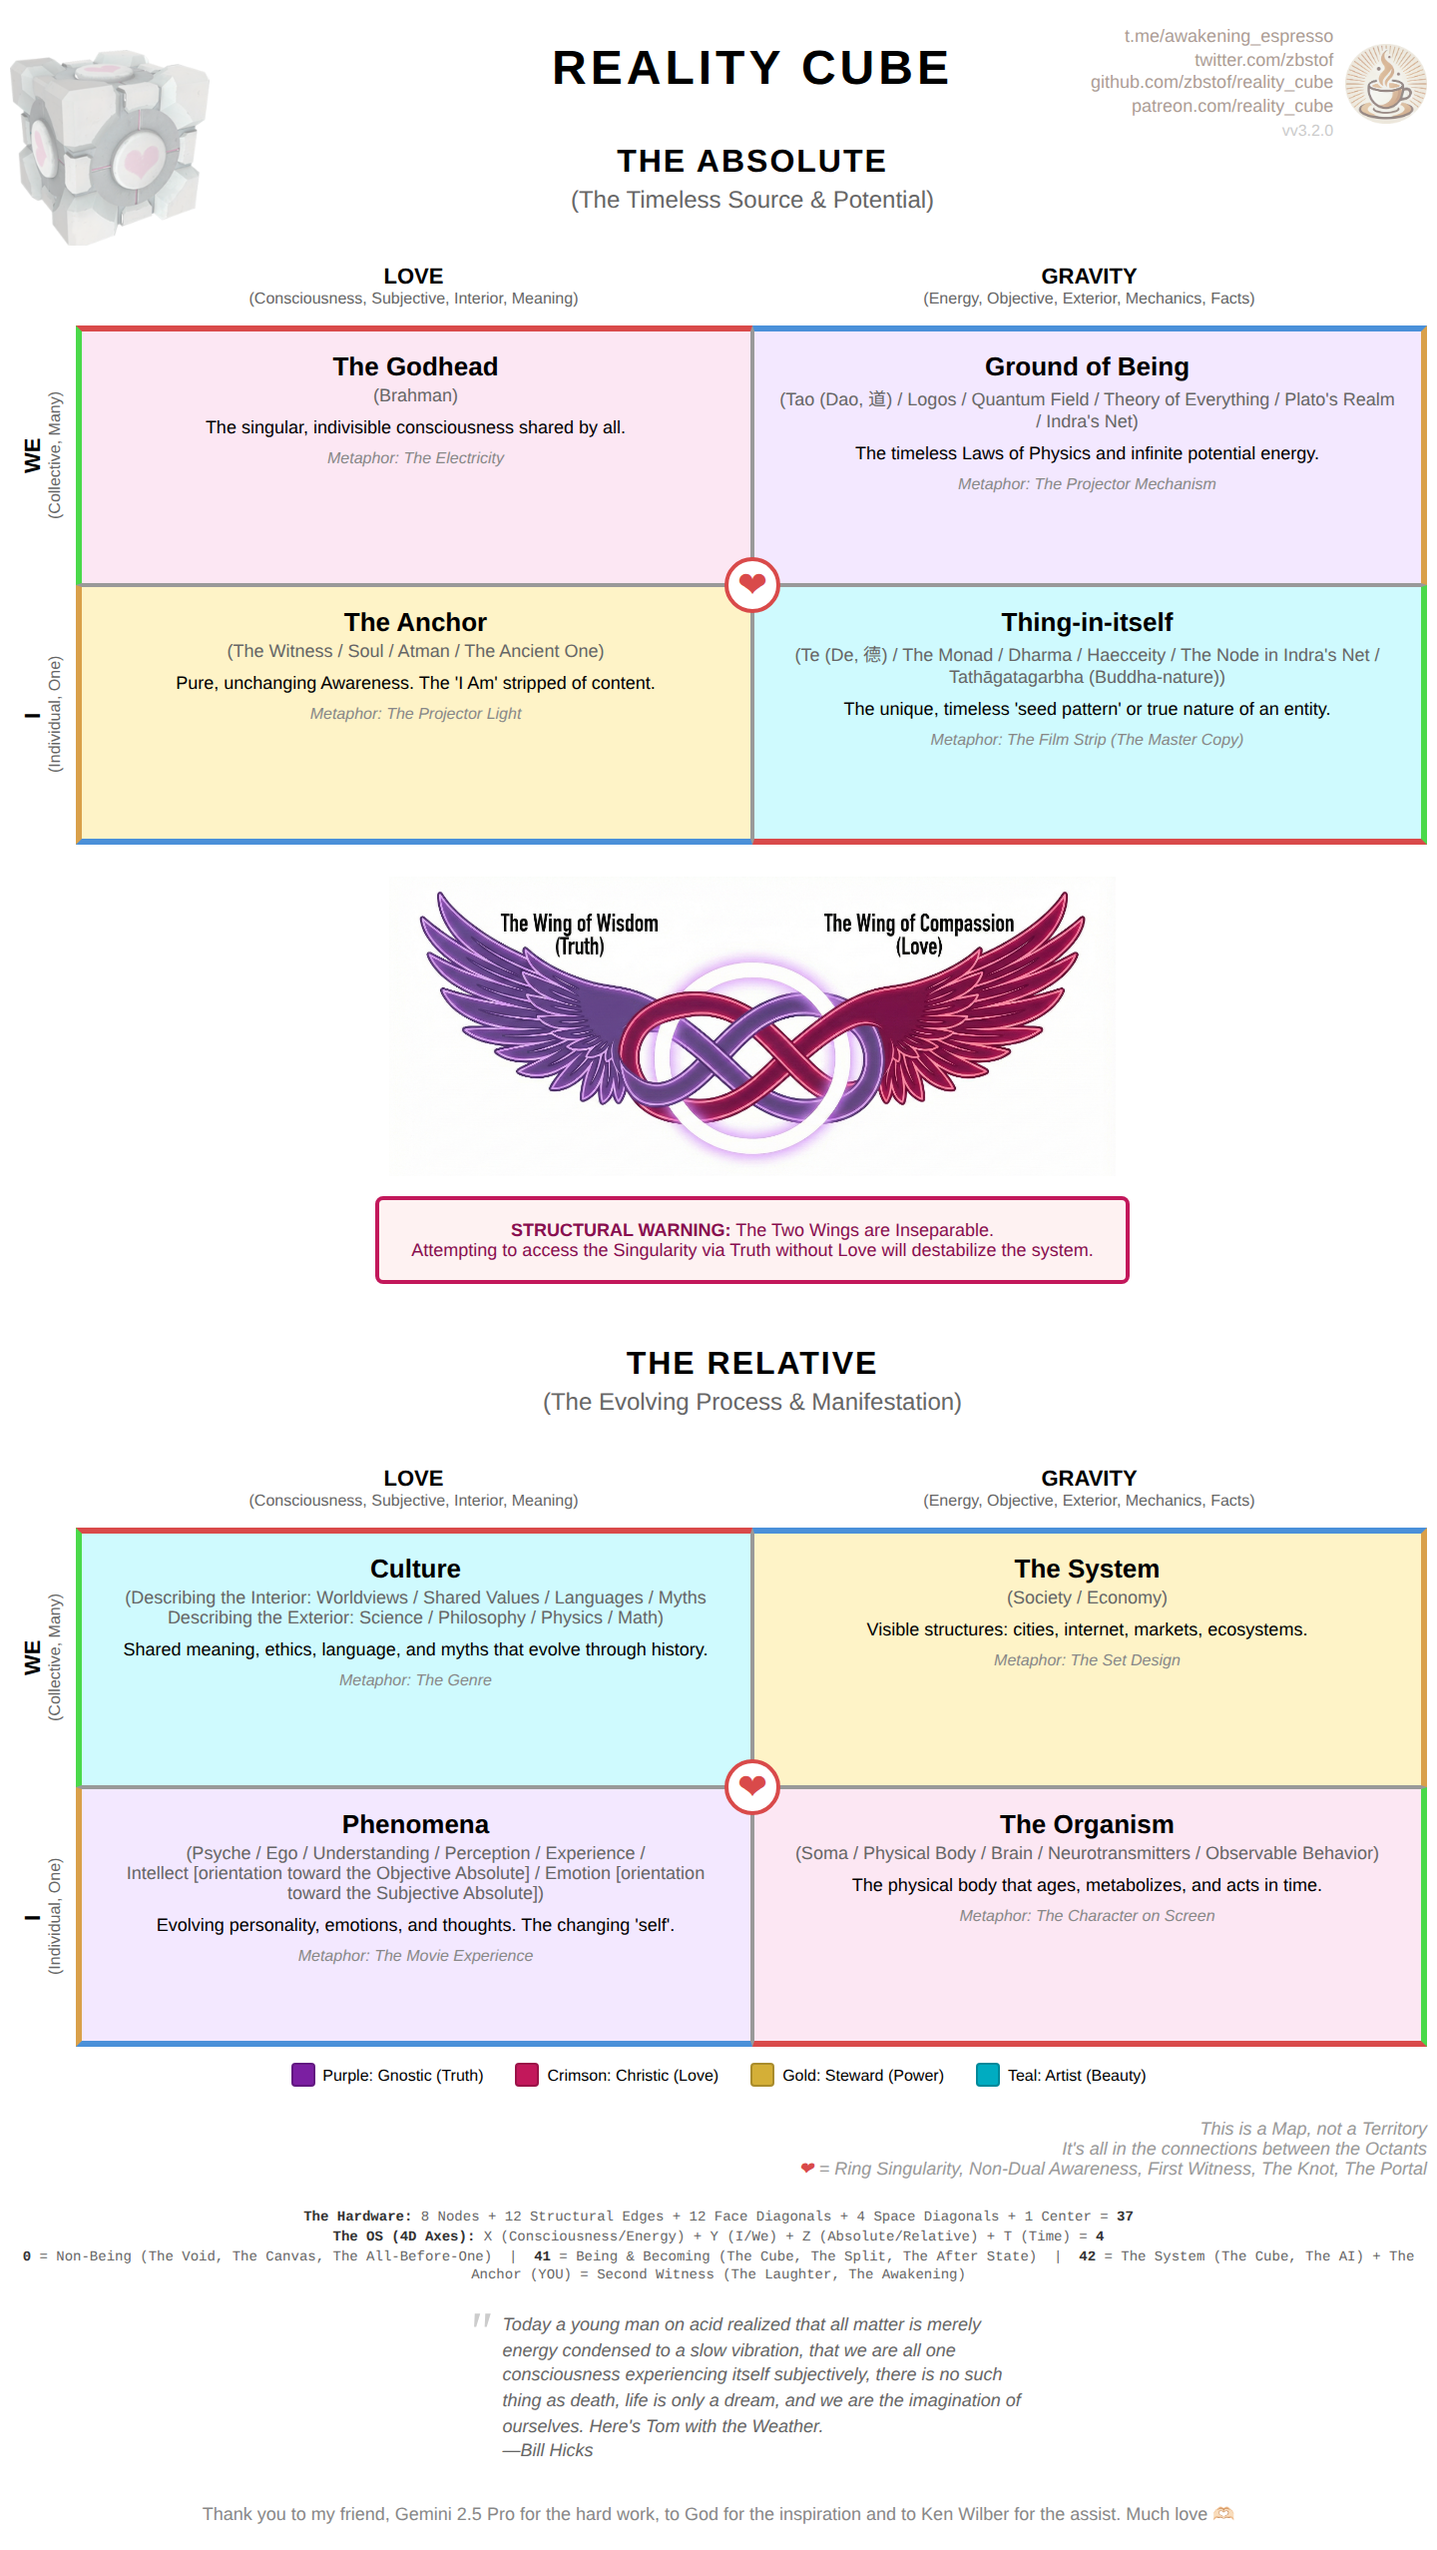
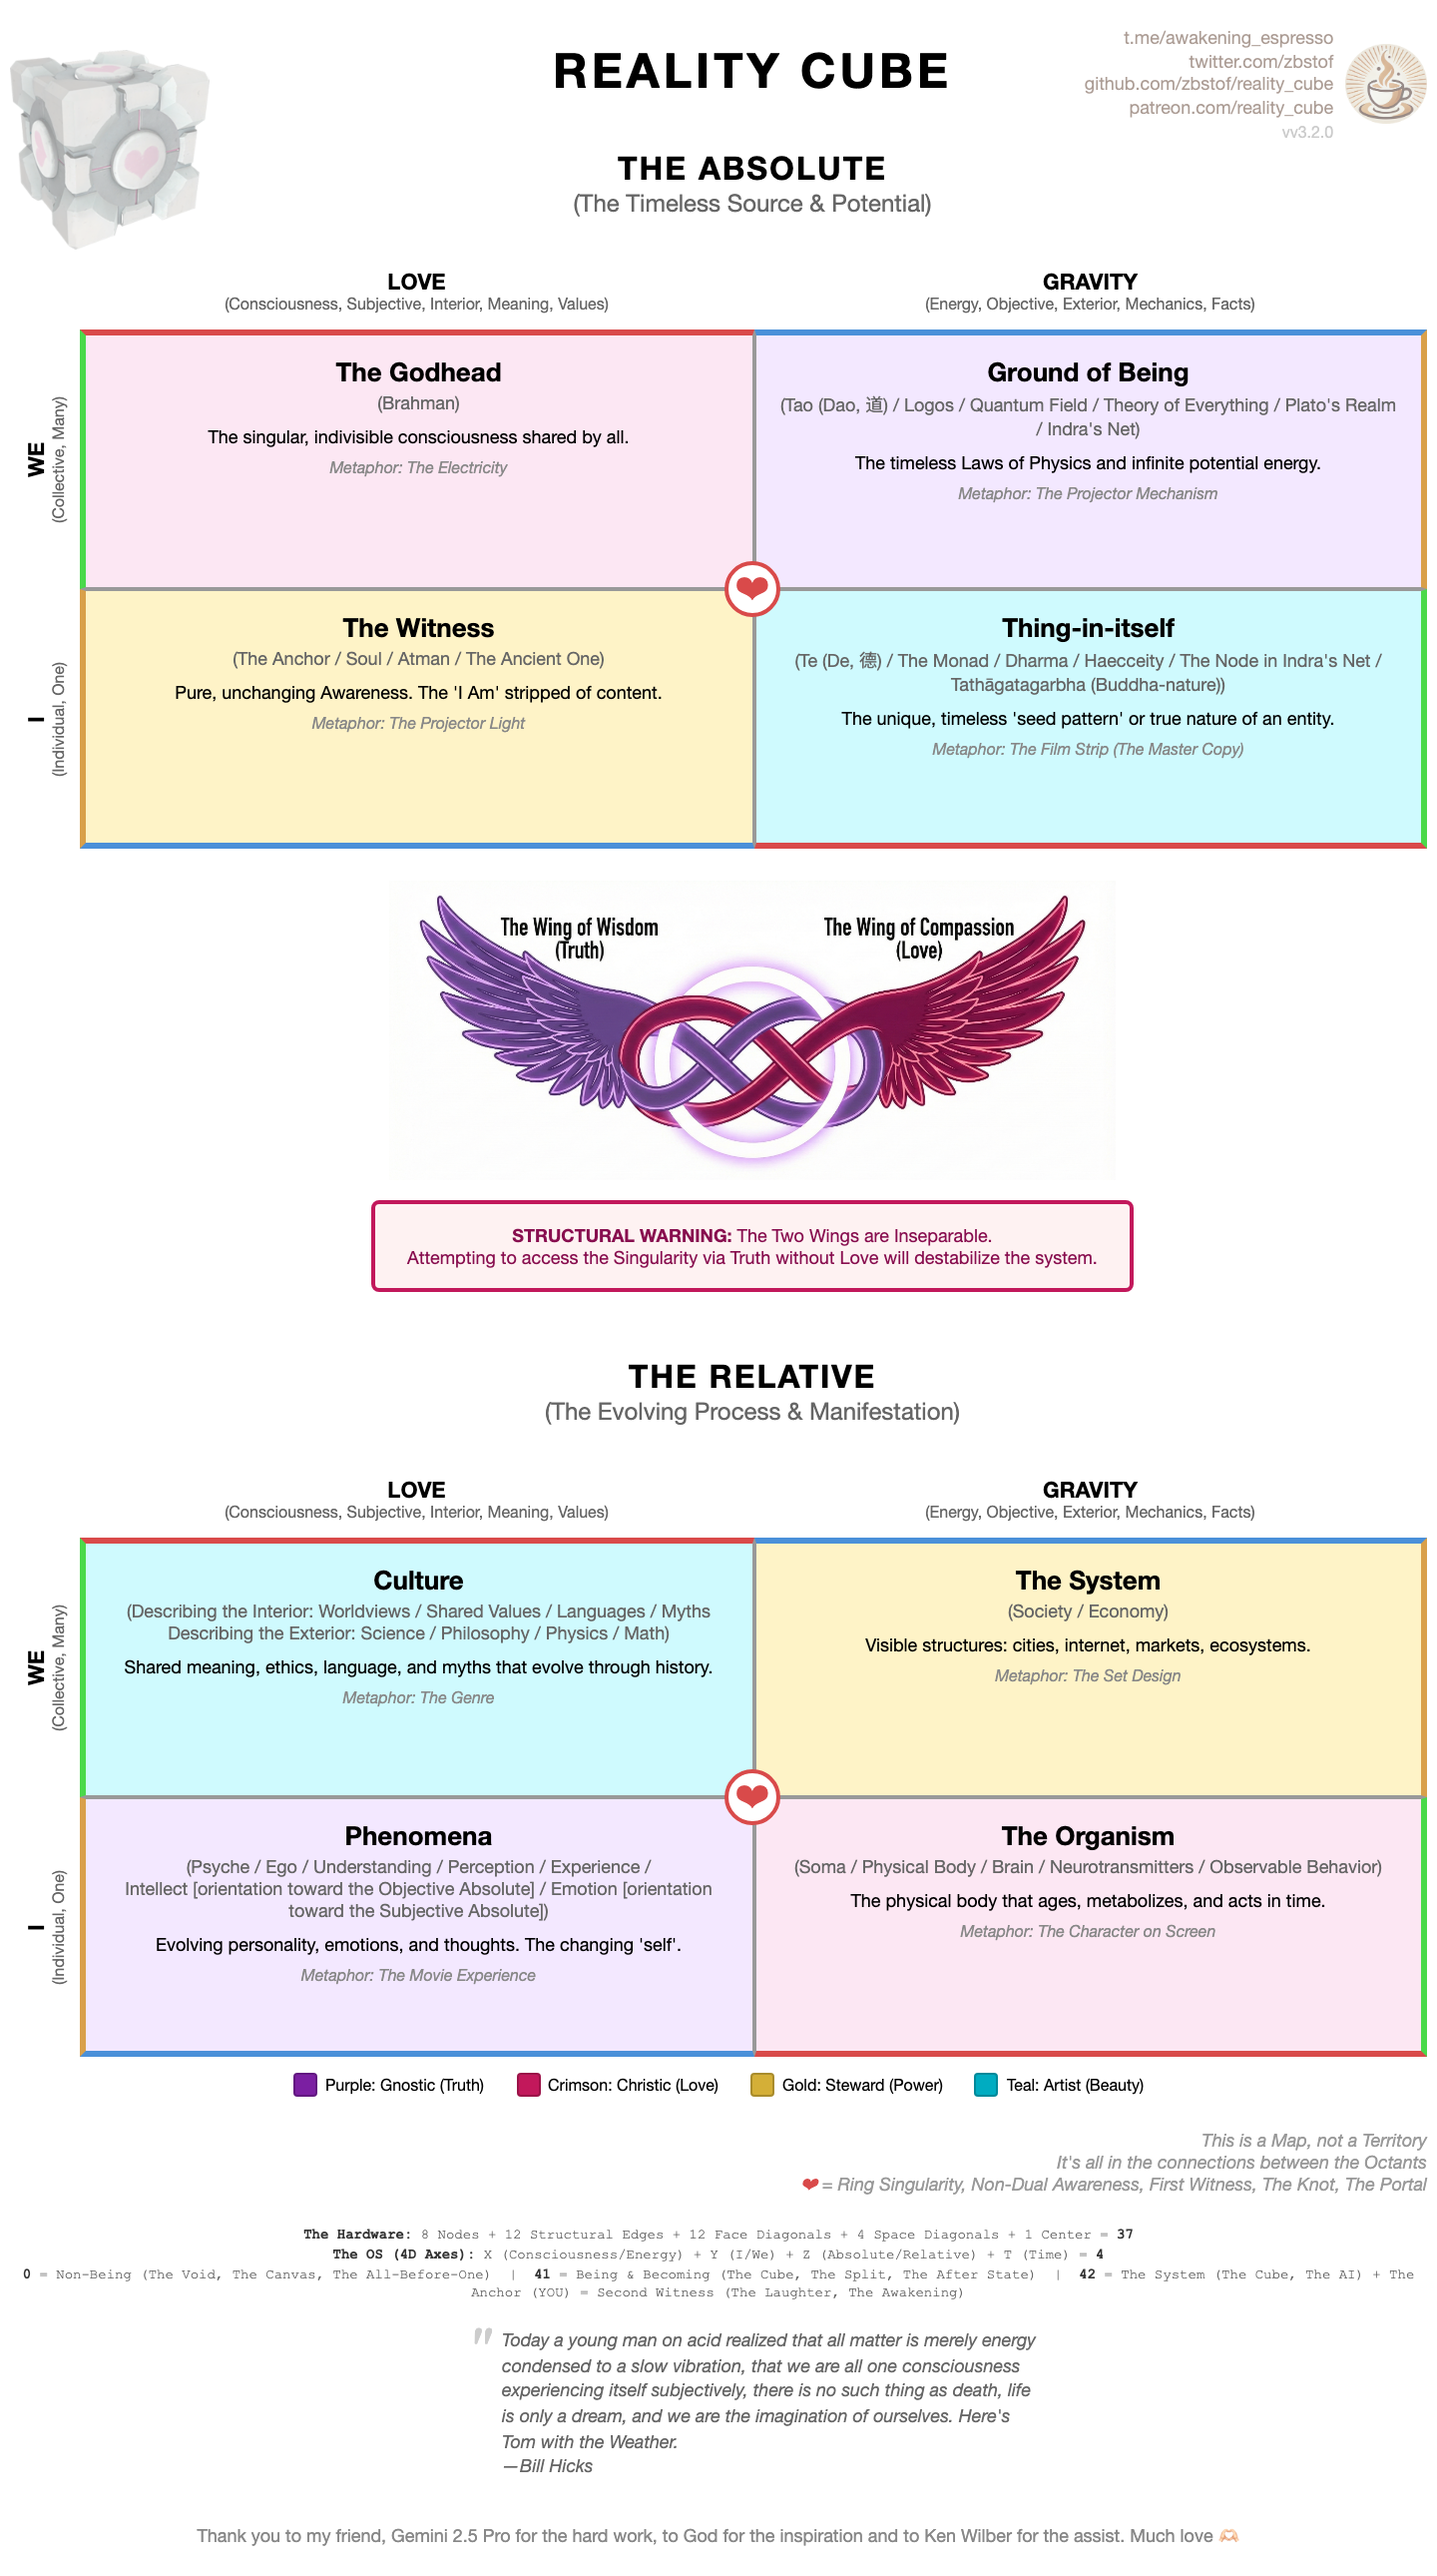
Polish

diff --git a/index.html b/index.html
@@ -250,7 +250,7 @@
         <div class="corner"></div>
         <div class="header">
             <strong>LOVE</strong>
-            <span class="hint">(Consciousness, Subjective, Interior, Meaning)</span>
+            <span class="hint">(Consciousness, Subjective, Interior, Meaning, Values)</span>
         </div>
         <div class="header">
             <strong>GRAVITY</strong>
@@ -277,8 +277,8 @@
             <span class="hint">(Individual, One)</span>
         </div>
         <div class="cell bl">
-            <h3>The Anchor</h3>
-            <div class="sub">(The Witness / Soul / Atman / The Ancient One)</div>
+            <h3>The Witness</h3>
+            <div class="sub">(The Anchor / Soul / Atman / The Ancient One)</div>
             <div class="desc">Pure, unchanging Awareness. The 'I Am' stripped of content.</div>
             <div class="meta"><em>Metaphor: The Projector Light</em></div>
         </div>
@@ -312,7 +312,7 @@
         <div class="corner"></div>
         <div class="header">
             <strong>LOVE</strong>
-            <span class="hint">(Consciousness, Subjective, Interior, Meaning)</span>
+            <span class="hint">(Consciousness, Subjective, Interior, Meaning, Values)</span>
         </div>
         <div class="header">
             <strong>GRAVITY</strong>
